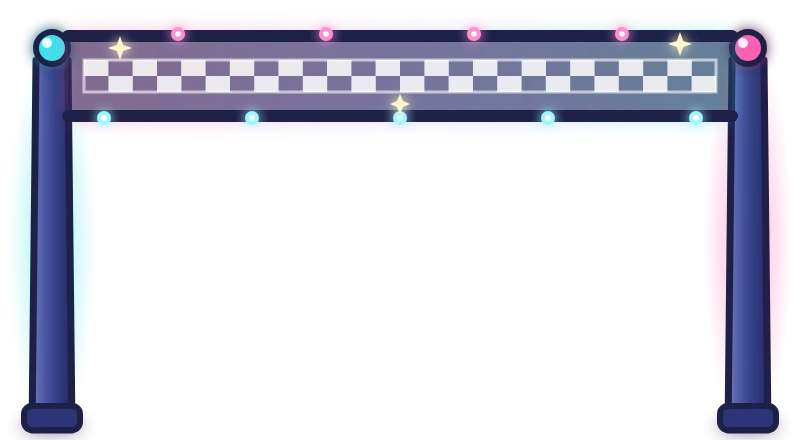
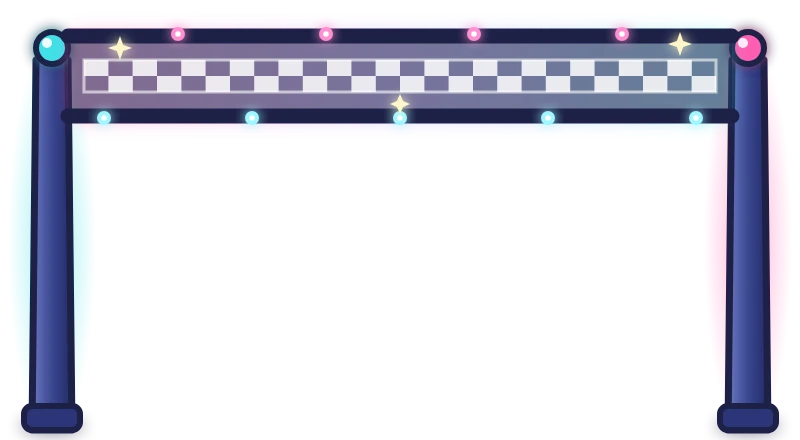
WIP: start gates in the 3 games, compact grids, front-facing results portraits, MLS round 7
Claude-Session: https://claude.ai/code/session_011bftBeXudnSzAMBxDFXhpR

Changed region(s): [[0.0938, 0.2364, 0.9062, 0.2955], [0.0938, 0.0591, 0.9062, 0.1182]]

diff --git a/game.config.js b/game.config.js
@@ -144,7 +144,7 @@ window.GAME = {
       critter_back_aqua: { path: "assets/img/critter_back_aqua.webp", res: 2 }, critter_back_lime: { path: "assets/img/critter_back_lime.webp", res: 2 },
       critter_back_violet: { path: "assets/img/critter_back_violet.webp", res: 2 },
       // race: the keeper robot seen from behind, drawn over the critter (character.raceRider)
-      drone_back: { path: "assets/img/drone_back.webp", res: 2 }, drone_front: { path: "assets/img/drone_front.webp", res: 2 },   // the Escape pursuer (race.chase)
+      drone_back: { path: "assets/img/drone_back.webp", res: 2 }, drone_front: { path: "assets/img/drone_front.webp", res: 2 }, start_gate: { path: "assets/img/start_gate.webp", res: 2 },   // the Escape pursuer (race.chase)
       rider_back_aqua: { path: "assets/img/rider_back_aqua.webp", res: 2 }, rider_back_amber: { path: "assets/img/rider_back_amber.webp", res: 2 },
       dust: "assets/img/dust.webp", dust_b: "assets/img/dust_b.webp", cloth: "assets/img/cloth.webp",
       want_dust: { path: "assets/img/want_dust.webp", res: 2 },
@@ -343,7 +343,7 @@ window.GAME = {
         { name: "Comet", sprite: "critter_back_amber", rider: "rider_back_aqua", riderTint: "#a98bff", color: "#a98bff" },
         { name: "Orbit", sprite: "critter_back_aqua", rider: "rider_back_amber", riderTint: "#ff8a66", color: "#ff8a66" },
       ],
-      scale: 6.5, hw: 0.3, skill: [0.82, 0.97], gridGap: 6, gridFirst: 4, lanes: [-0.62, 0.62],
+      scale: 6.5, hw: 0.3, skill: [0.82, 0.97], gridGap: 3, gridFirst: 5, startGate: "start_gate", startGateScale: 17, lanes: [-0.62, 0.62],
       rewards: [40, 25, 15, 8, 5, 3],
       placeMessages: ["{i:trophy} You won the Comet Race!", "{i:star} 2nd place, so close!", "{i:star} 3rd: you made the podium!", "You finished {place}. Overtake more riders next time!"],
       resultsTitle: "{i:flag} Results",
